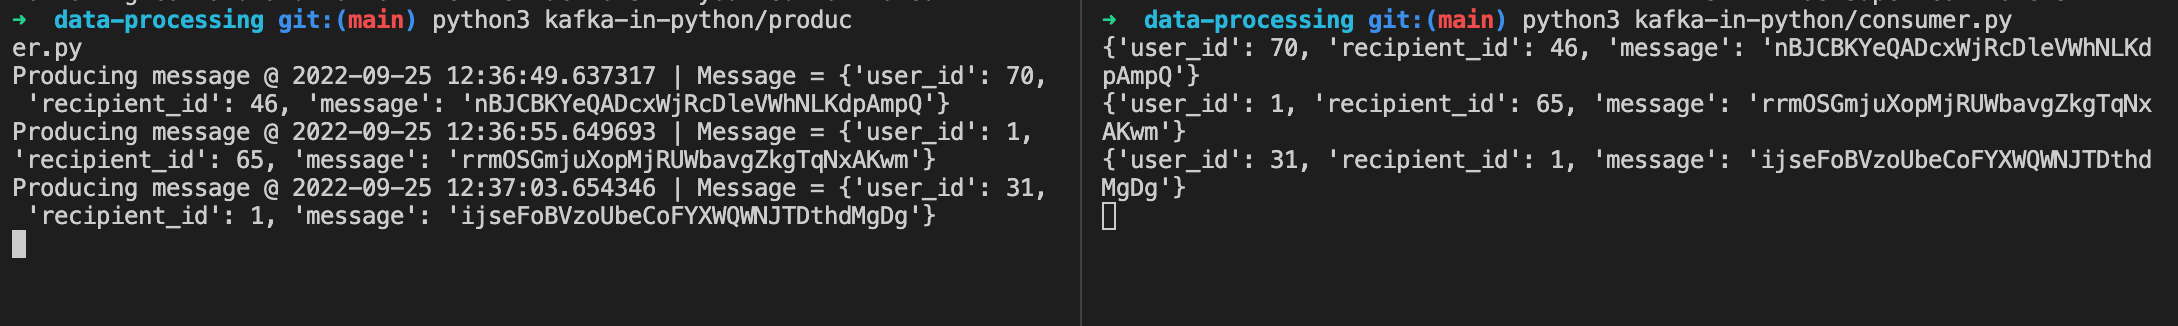
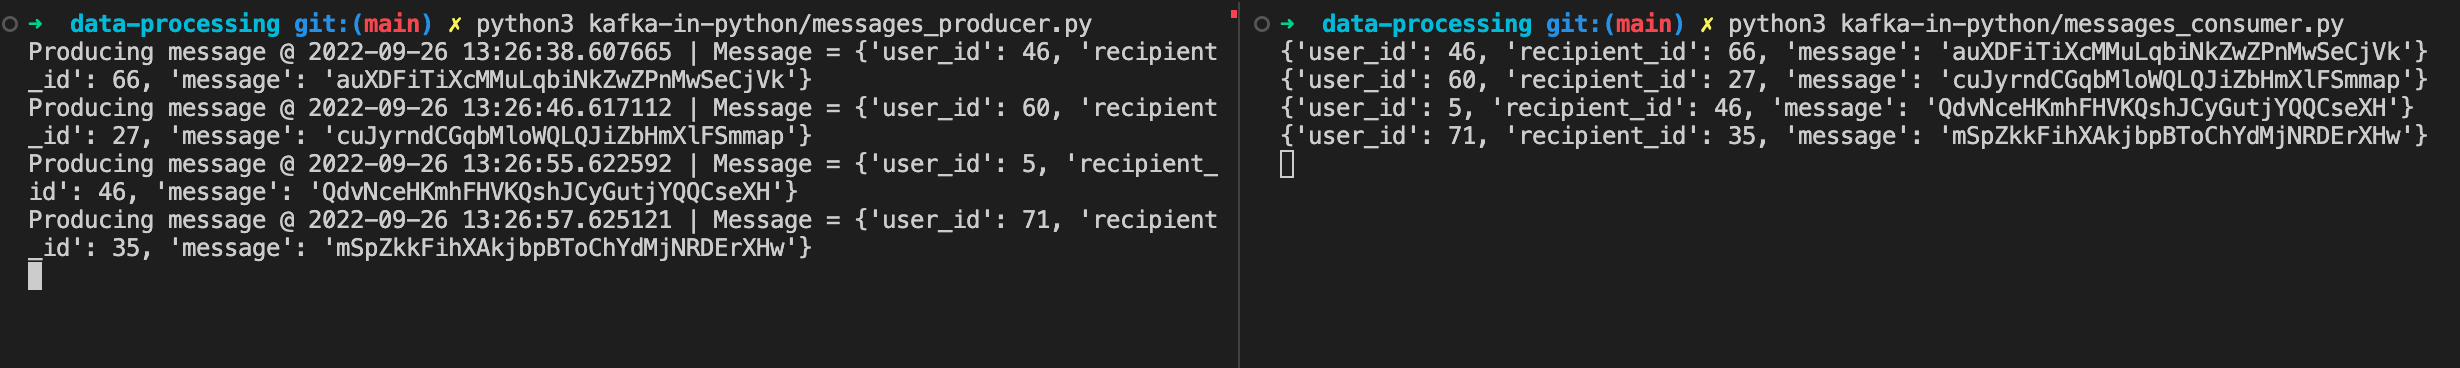
update readme and file names

Changed region(s): [[0.0, 0.0307, 0.9991, 0.7975], [0.4995, 0.6748, 0.5308, 0.7055]]

diff --git a/kafka-in-python/messages_producer.py b/kafka-in-python/messages_producer.py
@@ -2,7 +2,7 @@ import time
 import json 
 import random 
 from datetime import datetime
-from data_generator import generate_message
+from messages_data_generator import generate_message
 from kafka import KafkaProducer
 
 

diff --git a/README.md b/README.md
@@ -7,7 +7,7 @@ An introduction to data streaming/processing platforms (Kafka/Flink)
 ```
 ./kafka-setup/setup.sh
 ```
-2) [Create a kafka topic called messages](https://github.com/siddarthpatel/data-processing/blob/main/kafka-setup/usage.md#creating-a-kafka-topic-and-connecting-to-a-kafka-shell)
+2) [Create a kafka topic called `messages`](https://github.com/siddarthpatel/data-processing/blob/main/kafka-setup/usage.md#creating-a-kafka-topic-and-connecting-to-a-kafka-shell)
 
 3) Setup Kafka for python
 ```
@@ -16,10 +16,10 @@ An introduction to data streaming/processing platforms (Kafka/Flink)
 
 4) Run producer/consumer python scripts in separate terminal windows
 ```
-python3 kafka-in-python/producer.py
+python3 kafka-in-python/messages_producer.py
 ```
 ```
-python3 kafka-in-python/consumer.py
+python3 kafka-in-python/messages_consumer.py
 ```
 - Output
 ![Alt text](/assets/kafka-in-python.png)
